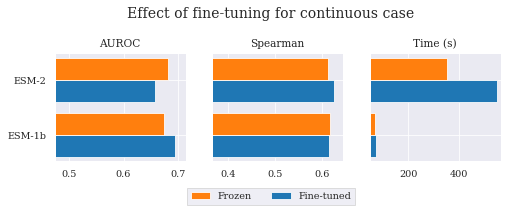
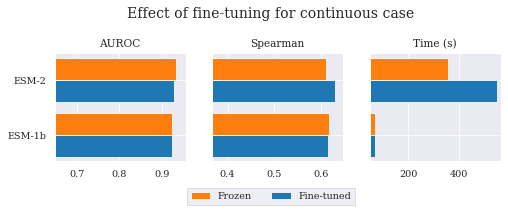
redo embedding compare and fine tuning with correct auroc

diff --git a/bin/disorder/embedding_compare_chezod.py b/bin/disorder/embedding_compare_chezod.py
@@ -1,0 +1,115 @@
+from argparse import ArgumentParser, Namespace
+
+from pytorch_lightning import Trainer
+from pytorch_lightning.callbacks import EarlyStopping
+from ray import tune
+from ray.tune.integration.pytorch_lightning import TuneReportCallback
+from transformers import logging
+
+from chezod_data_module import CheZODDataModule
+from continuous_disorder_classifier import ContinuousDisorderClassifier
+
+
+def main(hparams):
+    tuning_callback = TuneReportCallback({
+        "loss": "val_loss", "spearman": "val_spearman", "auroc": "val_auroc"
+    })
+
+    early_stop_callback = EarlyStopping(
+        monitor=hparams.monitor,
+        min_delta=0.0,
+        patience=hparams.patience,
+        mode=hparams.metric_mode,
+    )
+
+    trainer = Trainer.from_argparse_args(
+        hparams,
+        callbacks=[early_stop_callback, tuning_callback],
+    )
+
+    config = {
+        "model_name": tune.choice([
+            'esm2_t33_650M_UR50D',
+            'Rostlab/prot_t5_xl_half_uniref50-enc',
+            'esm2_t36_3B_UR50D',
+            'Rostlab/prot_bert_bfd',
+            'facebook/esm-1b',
+        ]),
+    }
+
+    def train(c):
+        # Silence the warnings about transformers not loading correctly (i.e. decoder missing)
+        logging.set_verbosity_error()
+        args_dict = vars(hparams)
+        args_dict.update(c)
+        if args_dict['model_name'] == 'facebook/esm-1b':
+            args_dict['max_length'] = 1024
+        params = Namespace(**args_dict)
+        dm = CheZODDataModule(params)
+        model = ContinuousDisorderClassifier(params)
+        trainer.fit(model, dm)
+
+    trainable = tune.with_parameters(train)
+
+    reporter = tune.CLIReporter(
+        metric_columns=["loss", "spearman", "auroc", "time_this_iter_s", "training_iteration"])
+
+    # We are not using a cluster launcher but just one node for now
+    # https://docs.ray.io/en/latest/tune/tutorials/tune-checkpoints.html#checkpointing-examples
+    sync_config = tune.SyncConfig(syncer=None)
+
+    analysis = tune.run(
+        trainable,
+        resources_per_trial={"cpu": 16, "gpu": 1},
+        metric="loss",
+        mode="min",
+        config=config,
+        num_samples=18,
+        local_dir='./raytune_result',
+        name="embedding_compare_chezod_set1_fixed_auroc",
+        sync_config=sync_config,
+        checkpoint_score_attr="max-auroc",
+        keep_checkpoints_num=5,
+        # a very useful trick! this will resume from the last run specified by
+        # sync_config (if one exists), otherwise it will start a new tuning run
+        resume="AUTO",
+        progress_reporter=reporter,
+    )
+
+    print(analysis.best_config)
+
+
+if __name__ == "__main__":
+    parser = ArgumentParser(conflict_handler='resolve')
+
+    # Checkpointing and Early Stopping
+    parser.add_argument("--monitor", default="val_spearman", type=str, help="Quantity to monitor.")
+    parser.add_argument(
+        "--metric_mode",
+        default="max",
+        type=str,
+        help="If we want to min/max the monitored quantity.",
+        choices=["min", "max"],
+    )
+    parser.add_argument(
+        "--patience",
+        default=5,
+        type=int,
+        help="Number of epochs with no improvement after which training will be stopped.",
+    )
+    parser.add_argument(
+        "--save_top_k",
+        default=1,
+        type=int,
+        help="The best k models according to the quantity monitored will be saved.",
+    )
+
+    # add model and data module specific args
+    parser = ContinuousDisorderClassifier.add_model_specific_args(parser)
+    parser = CheZODDataModule.add_data_specific_args(parser)
+    # add all the available trainer options to argparse
+    parser = Trainer.add_argparse_args(parser)
+
+    args = parser.parse_args()
+
+    main(args)

diff --git a/bin/disorder/continuous_disorder_classifier.py b/bin/disorder/continuous_disorder_classifier.py
@@ -210,9 +210,13 @@ class ContinuousDisorderClassifier(LightningModule):
         # We cannot compare them directly because we first need to remove the padded areas
         mask = targets[0] == 999
         preds = preds[0][~mask].float()
+
         targets = targets[0][~mask]
+        binary_targets = (targets <= 8).int()
+        first = binary_targets[0]
+        only_one_label = all(elem == first for elem in binary_targets)
+
         self.metric_spearman(preds, targets)
-        auroc = self.metric_auroc((preds <= 8).float(), (targets <= 8).int())
         self.log(f'{prefix}_loss', outputs['loss'], batch_size=self.hparams.batch_size,
                  sync_dist=self.hparams.strategy is not None and 'deepspeed' in self.hparams.strategy)
         self.log(f'{prefix}_spearman', self.metric_spearman, batch_size=self.hparams.batch_size,
@@ -220,7 +224,7 @@ class ContinuousDisorderClassifier(LightningModule):
         # We also need to replace AUROC 0 with 1 because a perfect prediction should get perfect score
         # https://torchmetrics.readthedocs.io/en/stable/classification/auroc.html
         self.log(f'{prefix}_auroc',
-                 torch.tensor(1.) if ((preds <= 8).int() == (targets <= 8).int()).all() else auroc,
+                 torch.tensor(1.) if only_one_label else self.metric_auroc(-preds, binary_targets),
                  batch_size=self.hparams.batch_size,
                  sync_dist=self.hparams.strategy is not None and 'deepspeed' in self.hparams.strategy)
 

diff --git a/bin/disorder/disprot_data_module.py b/bin/disorder/disprot_data_module.py
@@ -120,6 +120,7 @@ class DisprotDataModule(LightningDataModule):
         predict_dataset = load_prediction_fasta(self.hparams.predict_file,
                                                 self.hparams.max_length,
                                                 self.hparams.skip_first_lines)
+        self.dataset = predict_dataset
         return DataLoader(
             dataset=predict_dataset,
             batch_size=self.hparams.batch_size,

diff --git a/bin/disorder/data_utils.py b/bin/disorder/data_utils.py
@@ -108,9 +108,11 @@ def load_prediction_fasta(path, max_length=1536, skip_first=0):
                     "acc": line.strip(),
                     "seq": ""
                 }
-            else:
+            elif not line[0].isdigit():
                 item["seq"] += " ".join(list(re.sub(r"[UZOB]", "X", line.strip())))
 
+    if item is not None and len(item["seq"]) < max_length * 2:
+        items.append(item)
     return NLPDataset(items)
 
 

diff --git a/bin/disorder/binary_disorder_classifier.py b/bin/disorder/binary_disorder_classifier.py
@@ -291,7 +291,7 @@ class BinaryDisorderClassifier(LightningModule):
         if self.hparams.architecture == 'rnn_crf':
             return preds
         else:
-            return (preds > 0.5).int()
+            return (torch.sigmoid(preds) >= 0.5).int()
 
     def configure_optimizers(self):
         """ Sets different Learning rates for different parameter groups. """
